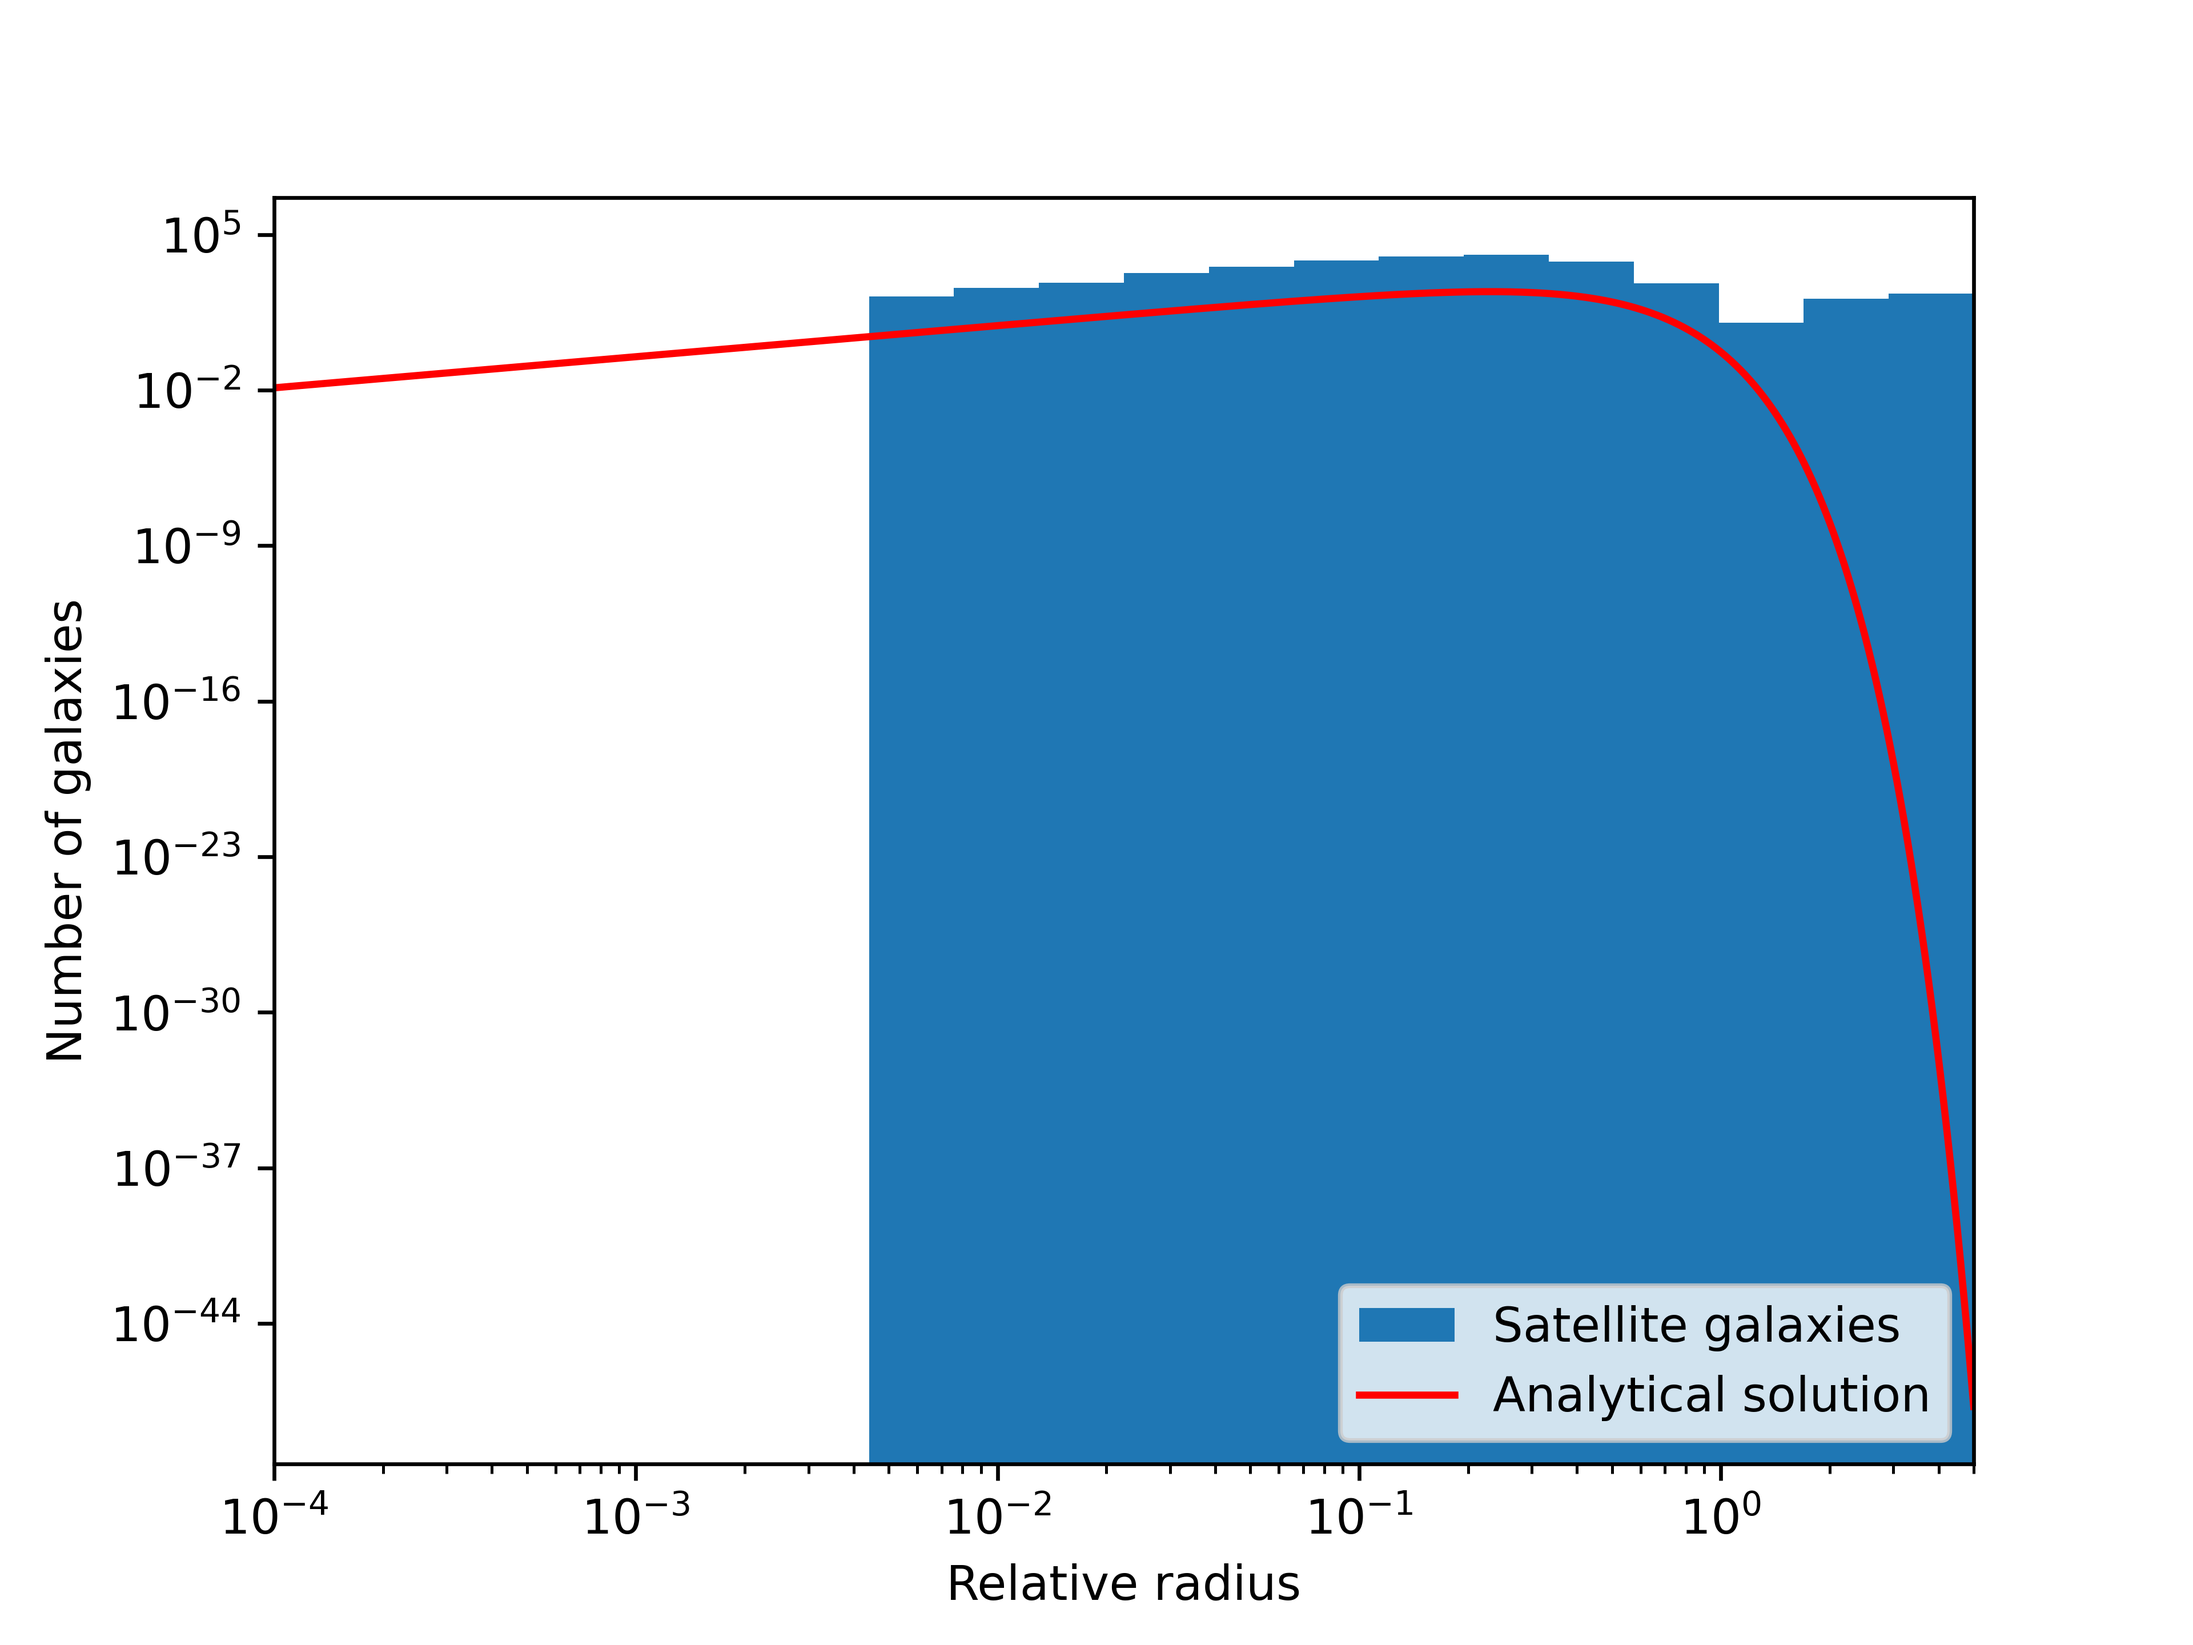
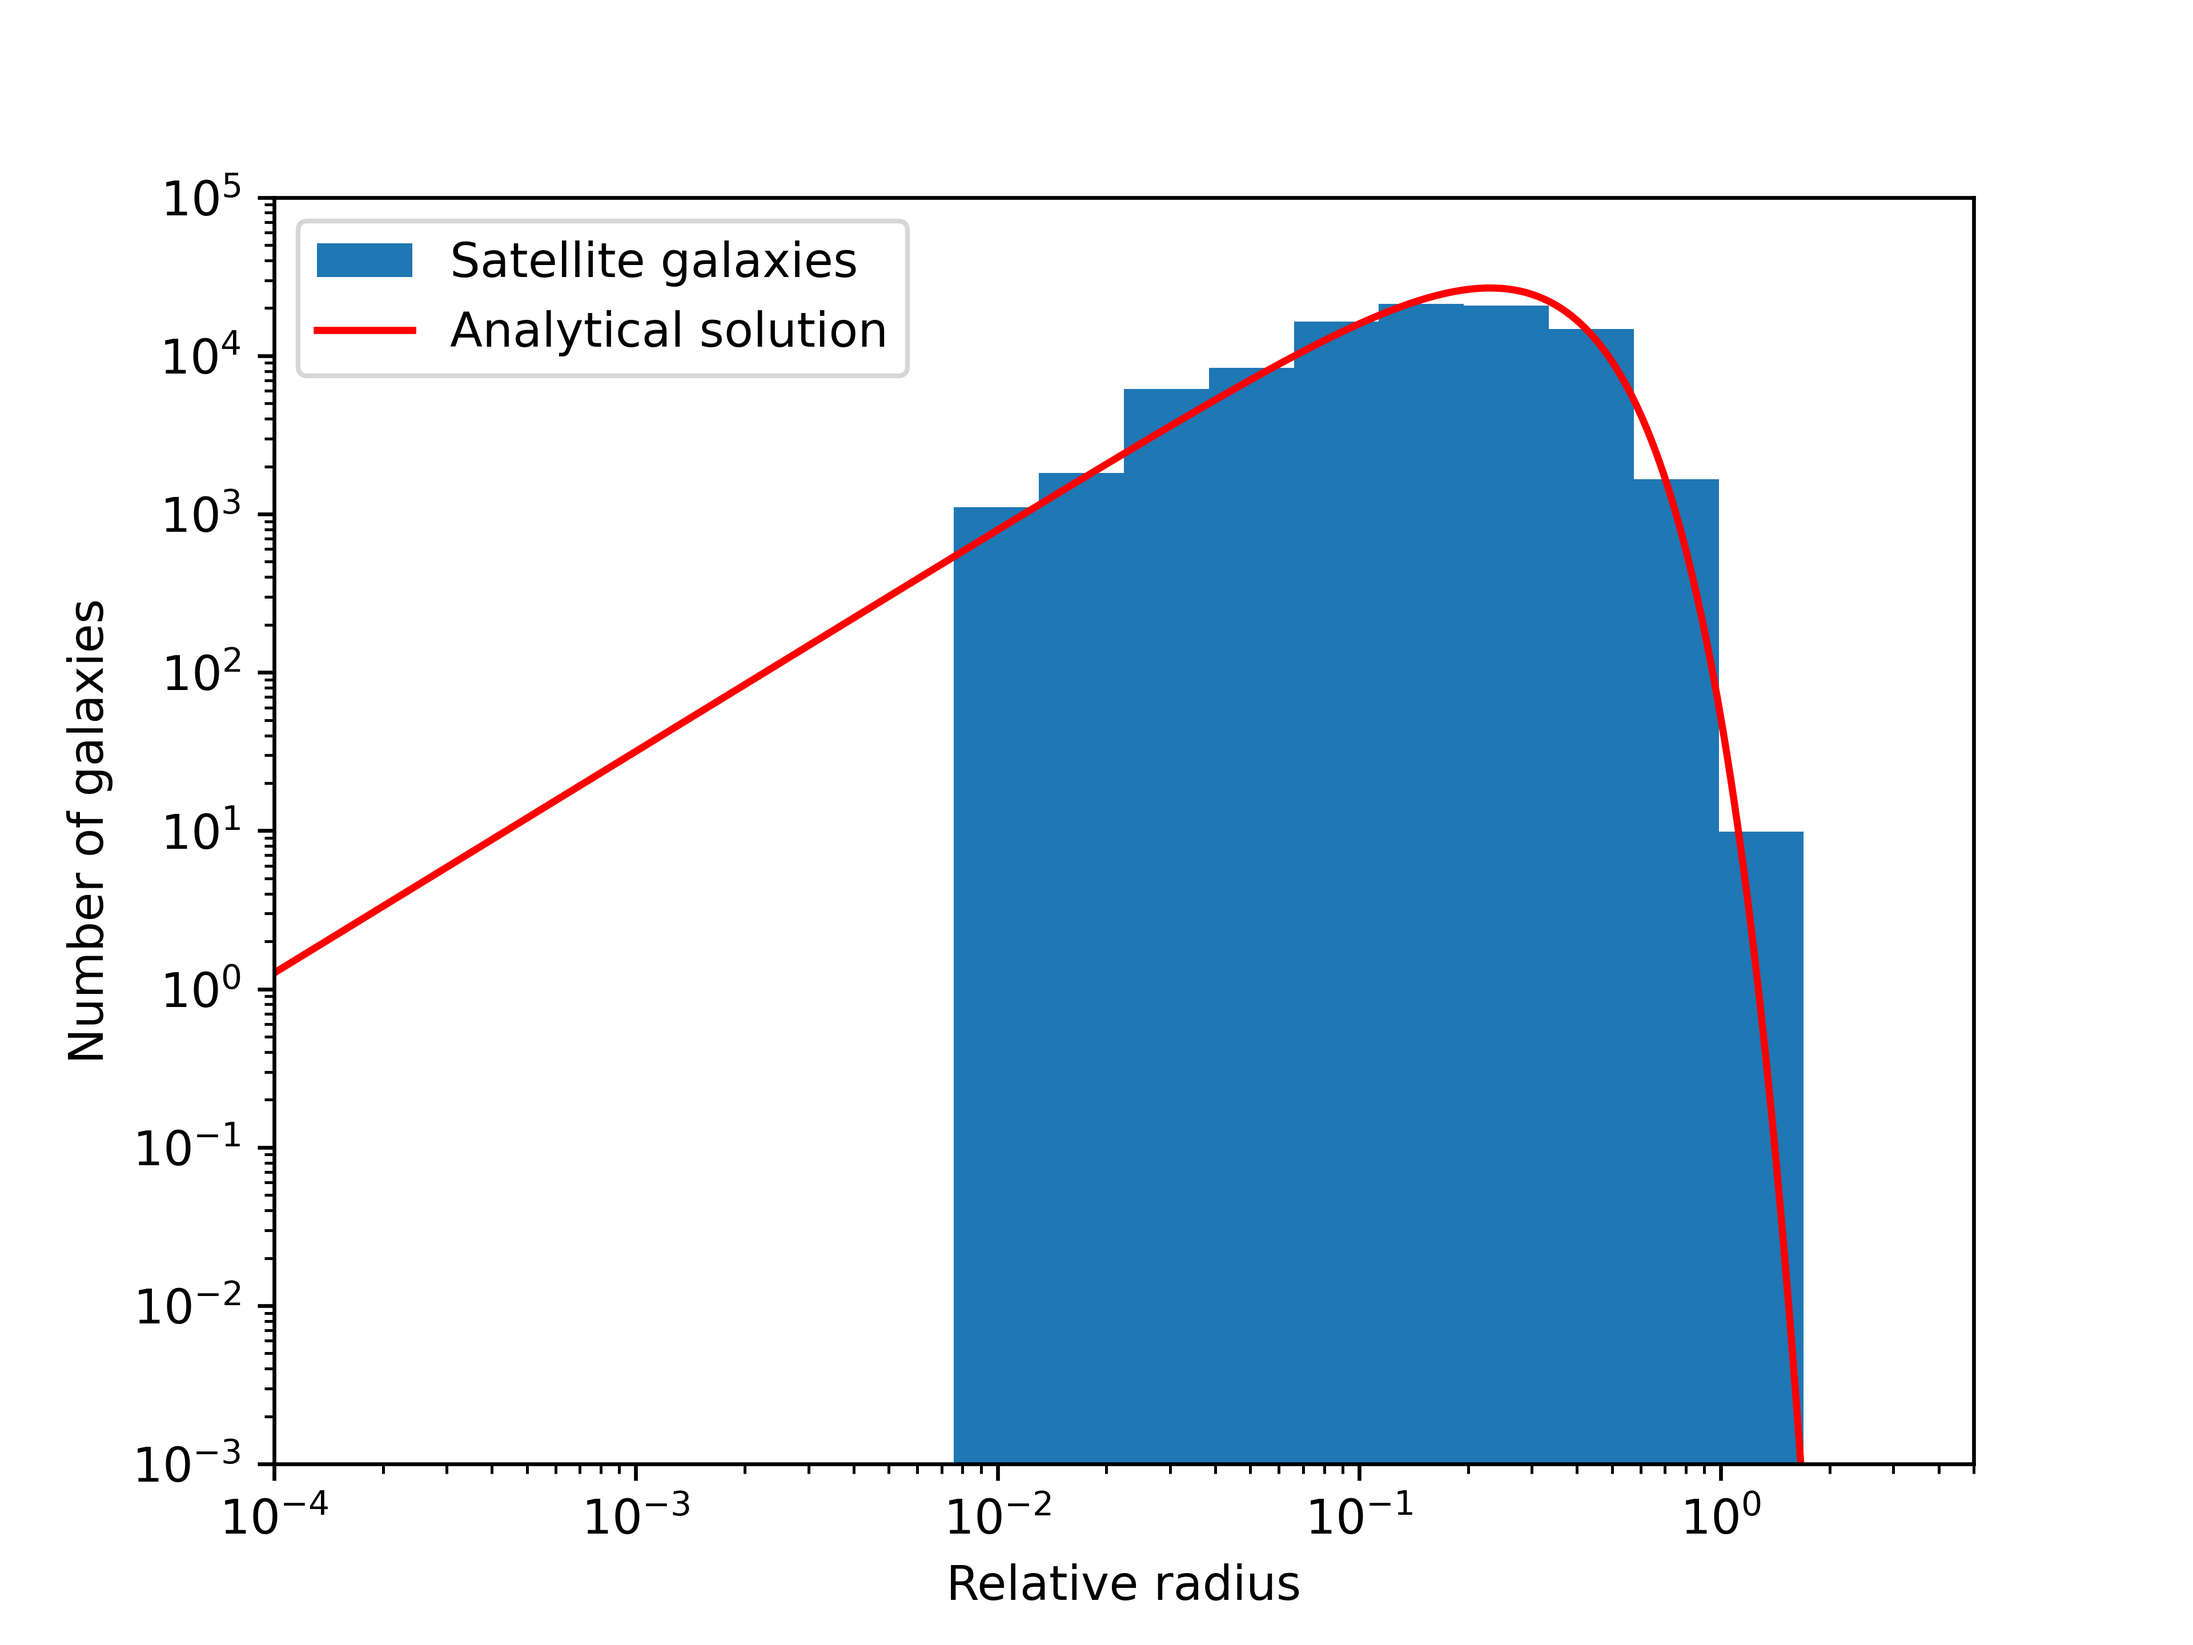
New values 1a

diff --git a/Q1_SatelliteGalaxy.py b/Q1_SatelliteGalaxy.py
@@ -117,15 +117,69 @@ def rng(N):
         seed = seed ^ (seed>>a_3)
         u = seed / np.float64(2**64)
         rnds[i] = u
+    if N==1:
+        return rnds[0]
     return rnds
+
+def root_finder(
+    func: callable,  # add derivative if using Newton-Raphson
+    bracket: tuple,
+    atol: float = 1e-6,
+    rtol: float = 1e-6,
+    max_iters: int = 100,
+) -> tuple[float, float, float]:
+    """
+    Find a root of a function
+
+    Parameters
+    ----------
+    func : callable
+        Function to find root of
+    bracket : tuple
+        Bracket for which to find first secant
+    atol : float, optional
+        Absolute tolerance.
+        The default is 1e-6
+    rtol : float, optional
+        Relative tolerance.
+        The default is 1e-6
+    max_iters: int, optional
+        Maximum number of iterations.
+        The default is 100
+
+    Returns
+    -------
+    root : float
+        Approximate root
+    aerr : float
+        Absolute error
+    rerr : float
+        Relative error
+    """
+    # False Position
+    a, b = bracket  
+    previous_c = np.inf
+    for _ in range(max_iters):
+        c = b - ((b-a)*func(b))/(func(b)-func(a))
+        if func(a)*func(c) < 0:
+            b = np.copy(c)
+        else:
+            a = np.copy(c)
+        aerr = np.abs(c - previous_c)
+        if aerr < atol:
+            return c, aerr, rerr
+        rerr = np.abs(aerr /c)
+        if rerr < rtol:
+            return c, aerr, rerr
+        previous_c = np.copy(c)
+    return c, aerr, rerr
 
 def sampler(
     dist: callable,
     min: float,
     max: float,
     Nsamples: int,
-    args: tuple = (),
-    N_cdf_samples = 1000
+    args: tuple = ()
 ) -> np.ndarray:
     """
     Sample a distribution using sampling method of your choice
@@ -147,25 +201,16 @@ def sampler(
     sample: ndarray
         Values sampled from dist, shape (Nsamples,)
     """
-    def inverse_function(y, x_values, y_values):
-        for right_index, y_value in enumerate(y_values):
-            if y_value > y:
-                break
-        left_y_value, right_y_value = y_values[right_index - 1], y_values[right_index]
-        left_x_value, right_x_value = x_values[right_index - 1], x_values[right_index]
-        dx = (y - left_y_value) / (right_y_value - left_y_value)
-        return left_x_value + dx * (right_x_value - left_x_value)
-
-    cdf = np.zeros(N_cdf_samples)
-    x_values = np.linspace(min, max, N_cdf_samples)
-    for i, right in enumerate(x_values):
-        cdf[i] = romberg_integrator(dist, (min, right), args=args)
-    cdf /= np.max(cdf)
-    random = rng(Nsamples)
     sample = np.zeros(Nsamples)
-    for i in range(Nsamples):
-        sample[i] = inverse_function(random[i], x_values, cdf)
+    i = 0
+    while i < Nsamples:
+        random_x = min + (max-min)*rng(1)
+        random_y = rng(1)
+        if random_y < dist(random_x, *args):
+            sample[i] = random_x
+            i += 1
     return sample
+
 
 
 #### Sorting block ####
@@ -360,52 +405,52 @@ def main():
     N_generate = 10000
     xx = np.linspace(xmin, xmax, N_generate)
 
-    integrand = lambda x, a, b, c: 4 * np.pi * x**2 * n(x, 1, Nsat, a, b, c)  # insert the correct function
+    integrand = lambda x, a, b, c: 4 * np.pi * x**2 * n(x, 1, Nsat, a, b, c)
     integral, err = romberg_integrator(
         integrand, bounds, order=10, args=(a, b, c), err=True
     )
 
     # Normalisation
-    A = Nsat / integral  # to be computed
-    with open("Calculations/satellite_A.txt", "w") as f:
-        f.write(f"{A:.12g}\n")
-    integrand = lambda x, a, b, c: 4 * np.pi * x**2 * n(x, A, Nsat, a, b, c)  # replace by the correct function
+    A = Nsat / integral
+    err_A = Nsat / (integral**2) * err
+    integrand = lambda x, a, b, c: 4 * np.pi * x**2 * n(x, A, Nsat, a, b, c)
     integrated_Nsat = romberg_integrator(
         integrand, bounds, order=10, args=(a, b, c), err=False
     )
+    with open("Calculations/satellite_A.txt", "w") as f:
+        f.write(f"{A:.12g} & {err_A:.3e} & {np.abs(integrated_Nsat - Nsat):.3e}\n")
 
     p_of_x = (
-        lambda x: 4*np.pi*x**2*n(x, A, Nsat, a, b, c) / (Nsat**2)
-    )  # replace by the normalised distribution of satellite galaxies as a function of x
+        lambda x: 4*np.pi*x**2*n(x, A, 1, a, b, c))
 
+    dp_dx = lambda x: 8*np.pi*x*p_of_x(x) + 4*np.pi*x**2*dn_dx(x, A, 1, a, b, c)
+    x_max, _, _ = root_finder(dp_dx, (0.1, .5))
+    p_max = p_of_x(x_max)
+    p_of_x_norm = (lambda x: 4*np.pi*x**2*n(x, A, 1, a, b, c) / p_max)
+    
     global seed
-    seed = 123456789
-    random_samples = sampler(p_of_x, min=xmin, max=xmax, Nsamples=N_generate, args=())
+    seed = 31415926535
+    random_samples = sampler(p_of_x_norm, min=xmin, max=xmax, Nsamples=N_generate, args=())
 
     edges = 10 ** np.linspace(np.log10(xmin), np.log10(xmax), 21)
 
-    hist = np.histogram(
-        random_samples, bins=edges
-    )[
-        0
-    ]  # replace!
-    hist_scaled = (hist * 2 / (edges[1:]+edges[:-1])
-    )  # replace; this is NOT what you should be plotting, this is just a random example to get a plot with reasonable y values (think about how you *should* scale hist)
+    hist = np.histogram(random_samples, bins=edges)[0]
+    hist_scaled = hist / (edges[1:]-edges[:-1])
 
     fig = plt.figure()
-    relative_radius = np.linspace(xmin,xmax, 1000)  # replace!
-    analytical_function = 4*np.pi*relative_radius**2*n(relative_radius, A, Nsat, a, b, c)  # replace
+    relative_radius = np.linspace(xmin,xmax, 1000)
+    analytical_function = 4*np.pi*relative_radius**2*n(relative_radius, A, 1, a, b, c) * N_generate
 
     fig1b, ax = plt.subplots()
     ax.stairs(
         hist_scaled, edges=edges, fill=True, label="Satellite galaxies"
-    )  # just an example line, correct this!
+    )
     plt.plot(
         relative_radius, analytical_function, "r-", label="Analytical solution"
-    )  # correct this according to the exercise!
+    )
     ax.set(
         xlim=(xmin, xmax),
-        # ylim=(10 ** (-3), 10),  # you may or may not need to change ylim
+        ylim=(10 ** (-3), 1e5),
         yscale="log",
         xscale="log",
         xlabel="Relative radius",
